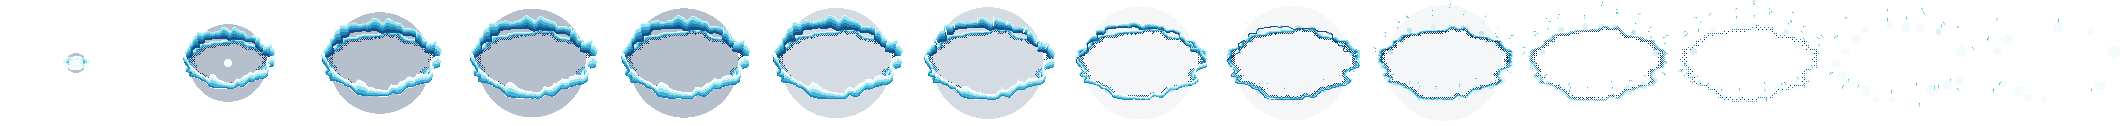
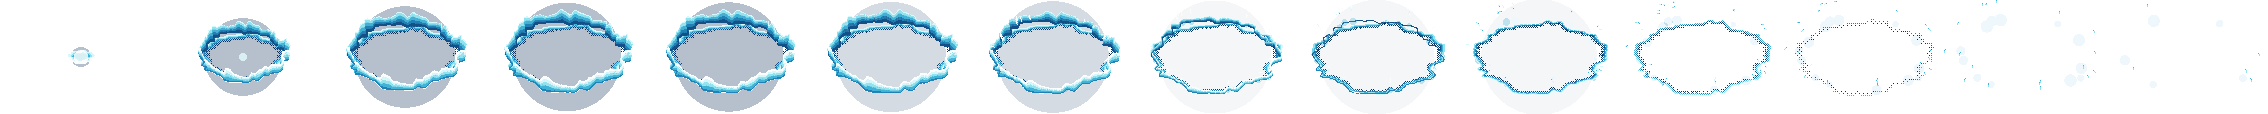
斯卡蒂涌潮水环：水柱改成簇状不等距（组长 11-03 录像反馈，docs/229 §2.6）
簇内间距 0.1–0.3 rad、簇间空 0.5–0.95 rad，数量随种子变；高矮 5–20（偶有 1.5 倍高柱）；每柱折断甩出的水珠 1–4 颗不固定。
重导 fx_skadi_px_surge：16.5 + 1.1 KB，近白 6.2%，斯卡蒂合计 63.4 KB。

diff --git a/tools/pixelfx_fx/water/ak-skadi-surge.js b/tools/pixelfx_fx/water/ak-skadi-surge.js
@@ -24,10 +24,10 @@ const SY = 0.55, OUT = 0.22, BREAK = 0.3;
 export function create(o) {
   const C = fit(o.palette, 8), Rg = new Rng(o.seed), R = o.radius;
   const ps = new Particles({ rng: Rg, ground: () => 1e9, sparks: [C[7], C[6], C[5], C[4]], haze: C[4] }), lights = new Lights();
-  // 水柱：角度不等距、高矮不一、出现早晚不一
+  // 水柱：成簇分布——簇内间距 0.1–0.3 rad、簇间空 0.5–0.95 rad（间距变化远超 ±30%，数量随种子变），高矮 5–20 并偶有高柱，出现早晚不一（docs/229 §2.6）
   const spouts = [];
-  for (let a = Rg.range(0, 0.3); a < TAU; a += Rg.range(0.18, 0.42))
-    spouts.push({ a, h: Rg.range(7, 18) * (Rg.chance(0.2) ? 1.5 : 1), w: Rg.range(2, 4), lean: Rg.range(0.25, 0.55), d: Rg.range(0, 0.07) });
+  for (let a = Rg.range(0, 0.6); a < TAU - 0.15; a += Rg.chance(0.3) ? Rg.range(0.5, 0.95) : Rg.range(0.1, 0.3))
+    spouts.push({ a, h: Rg.range(5, 20) * (Rg.chance(0.2) ? 1.5 : 1), w: Rg.range(1.5, 4.5), lean: Rg.range(0.2, 0.6), d: Rg.range(0, 0.09) });
   const crest = (t) => R * (0.18 + 0.8 * ease.outQuart(clamp(t / OUT)) + 0.1 * clamp((t - OUT) / 0.4));   // 到边后仍缓缓外推
   const jag = (a) => 1 + 0.09 * noise(a * 3.1, o.seed) + 0.05 * noise(a * 9.7, o.seed + 5);
   lights.add(0, 0, 22, C[5], 0.3, 0.25);   // 帧条里只烤小光晕（docs/229 §2.7）
@@ -76,8 +76,8 @@ export function create(o) {
         const rc = crest(t);
         for (const s of spouts) {
           const k = jag(s.a), x = Math.cos(s.a) * rc * k, y = Math.sin(s.a) * rc * k * SY, h = hAt(s.a);
-          for (let i = 0; i < 3; i++) {
-            const out = Rg.range(30, 90);
+          for (let i = 0, nd = Rg.int(1, 4); i < nd; i++) {   // 每柱折断甩出的水珠数不固定
+            const out = Rg.range(25, 100);
             ps.spawn(P.SPARK, x, y - h * Rg.range(0.5, 1), Math.cos(s.a) * out, Math.sin(s.a) * out * SY - Rg.range(40, 120), Rg.range(0.2, 0.38));
           }
           ps.spawn(P.VAPOUR, x, y, Math.cos(s.a) * 18, Math.sin(s.a) * 18 * SY - 4, Rg.range(0.25, 0.4), C[4], Rg.range(2.5, 4.5), Rg.range(0, 0.06));
